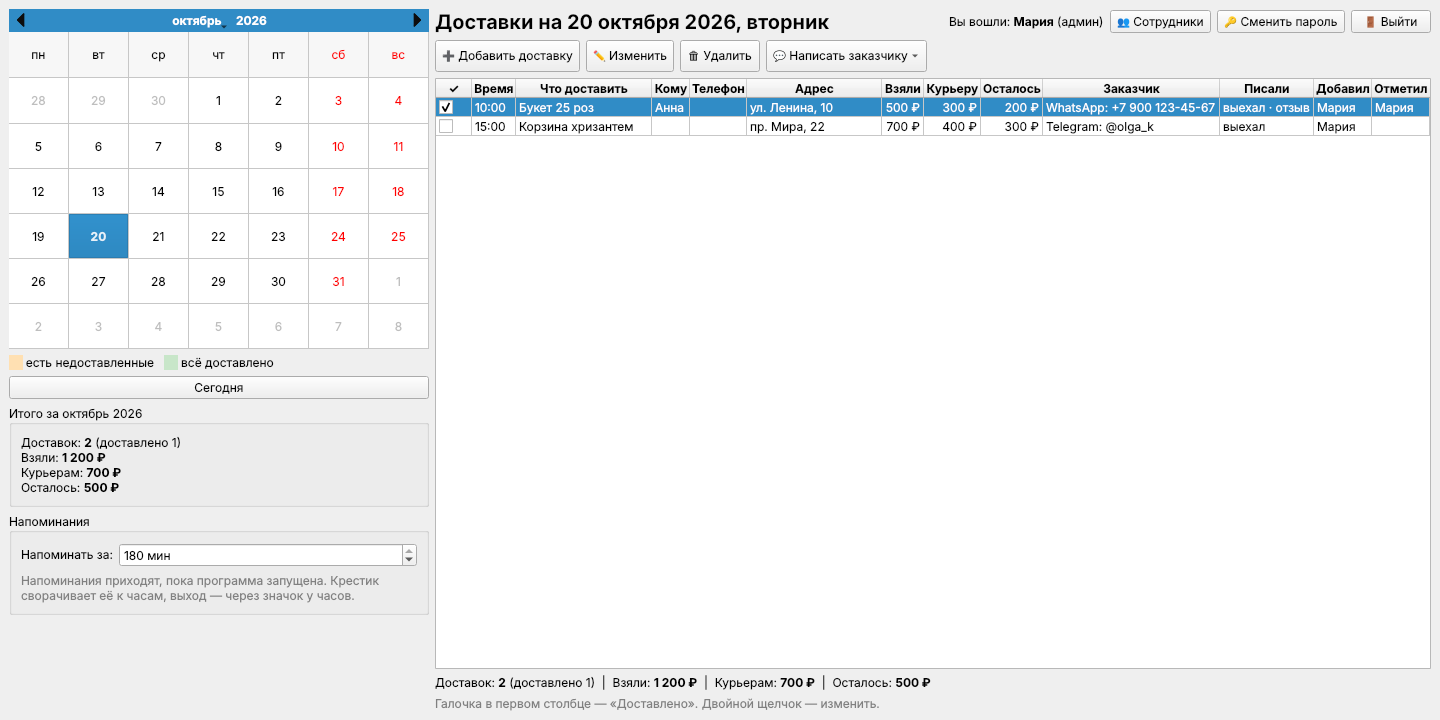
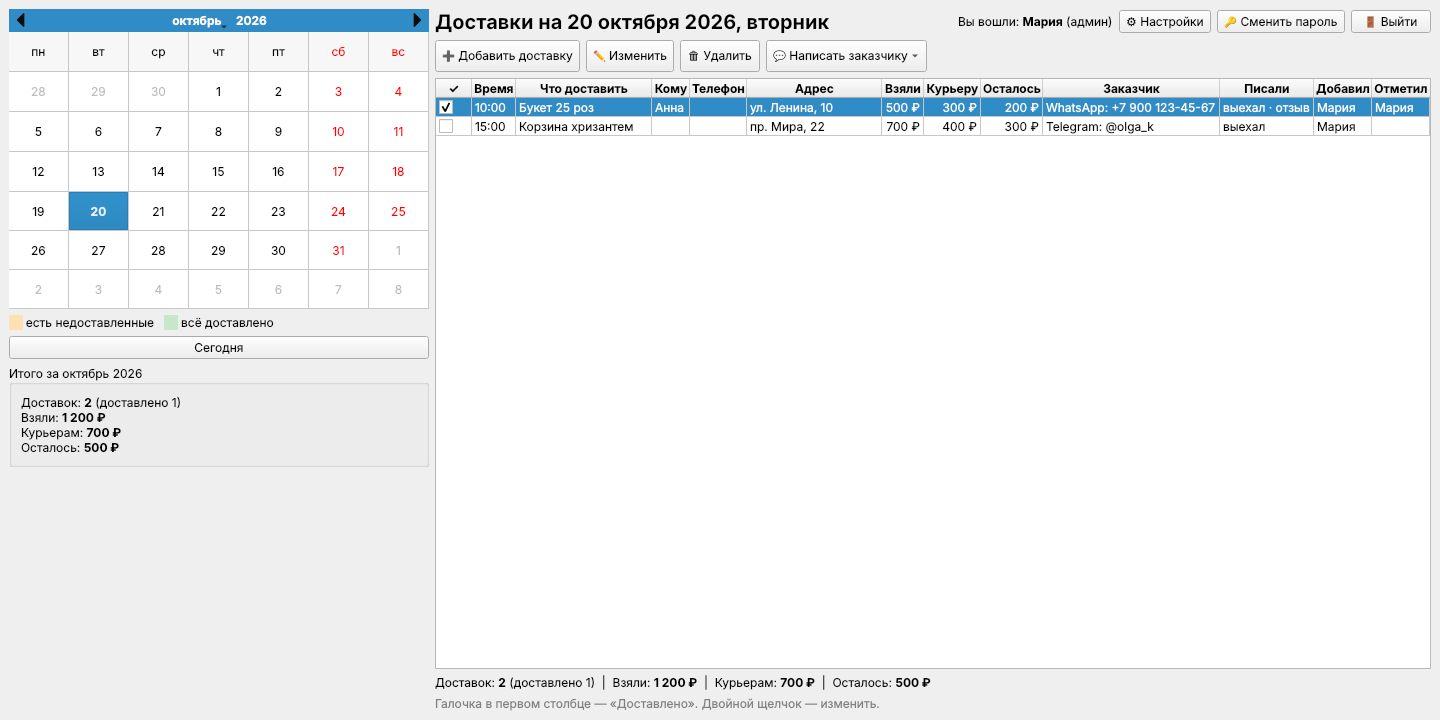
Окно настроек для администратора
Кнопка «Настройки» (видна только админу) собирает напоминания,
автозапуск, сотрудников, тексты сообщений и проверку обновлений.
Слева освободилось место, из меню сообщений убрана правка текстов.

Claude-Session: https://claude.ai/code/session_01N8isC27Ckv7WkyKqKzRkjE

diff --git a/app/main_window.py b/app/main_window.py
@@ -1,14 +1,13 @@
 """Главное окно: календарь на месяц и список доставок на выбранный день."""
 
-import sys
 from datetime import date, datetime, timedelta
 
 from PySide6.QtCore import QDate, QLocale, QSettings, Qt, QTimer, QUrl
 from PySide6.QtGui import QAction, QBrush, QDesktopServices, QColor, QFont, QKeySequence, QShortcut, QTextCharFormat
 from PySide6.QtWidgets import (
-    QAbstractItemView, QApplication, QCalendarWidget, QCheckBox, QDialog, QFormLayout,
+    QAbstractItemView, QApplication, QCalendarWidget, QDialog,
     QGroupBox, QHBoxLayout, QHeaderView, QLabel, QMainWindow, QMenu, QMessageBox,
-    QPushButton, QSpinBox, QSystemTrayIcon, QTableWidget, QTableWidgetItem,
+    QPushButton, QSystemTrayIcon, QTableWidget, QTableWidgetItem,
     QVBoxLayout, QWidget,
 )
 
@@ -16,7 +15,8 @@ from .db import Database, Delivery, Totals, User
 from .delivery_dialog import DeliveryDialog, money
 from .icon import flower_icon
 from .messaging import KINDS, SHORT, build_action, render
-from .templates_dialog import TemplatesDialog, load_templates
+from .settings_dialog import SettingsDialog, lead_minutes
+from .templates_dialog import load_templates
 from .update_ui import UpdateController
 from .reminders import due_reminders, reminder_key
 from .users_dialog import LoginDialog, PasswordDialog, UserFormDialog, UsersDialog
@@ -38,9 +38,6 @@ COL_DONE, COL_TIME, COL_ITEMS, COL_RECIPIENT, COL_PHONE, COL_ADDRESS, \
     COL_CREATED_BY, COL_DELIVERED_BY = range(len(HEADERS))
 
 REMINDER_CHECK_MS = 30_000
-DEFAULT_LEAD_MINUTES = 20
-AUTOSTART_KEY = r"HKEY_CURRENT_USER\Software\Microsoft\Windows\CurrentVersion\Run"
-AUTOSTART_NAME = "FlowerDeliveries"
 
 DELIVERED_BG = QColor("#e3f4e4")
 PENDING_DAY_BG = QColor("#ffe0b2")  # в этот день есть недоставленные
@@ -112,9 +109,7 @@ class MainWindow(QMainWindow):
         self.month_label.setWordWrap(True)
         month_layout.addWidget(self.month_label)
         left.addWidget(self.month_box)
-        left.addWidget(self._build_reminder_box())
         self.updater = UpdateController(self)
-        left.addWidget(self.updater.build_box())
         left.addStretch(1)
 
         # Правая часть: доставки за день
@@ -131,14 +126,14 @@ class MainWindow(QMainWindow):
         top.addWidget(self.day_title, 1)
         self.user_label = QLabel()
         top.addWidget(self.user_label)
-        self.users_btn = QPushButton("👥 Сотрудники")
-        self.users_btn.clicked.connect(self.manage_users)
+        self.settings_btn = QPushButton("⚙ Настройки")
+        self.settings_btn.clicked.connect(self.open_settings)
         password_btn = QPushButton("🔑 Сменить пароль")
         password_btn.clicked.connect(self.change_password)
         logout_btn = QPushButton("🚪 Выйти")
         logout_btn.setToolTip("Выйти из профиля, чтобы вошёл другой сотрудник")
         logout_btn.clicked.connect(self.logout)
-        for b in (self.users_btn, password_btn, logout_btn):
+        for b in (self.settings_btn, password_btn, logout_btn):
             top.addWidget(b)
         right.addLayout(top)
 
@@ -155,9 +150,6 @@ class MainWindow(QMainWindow):
         for kind, title in KINDS.items():
             action = write_menu.addAction(title)
             action.triggered.connect(lambda _=False, k=kind: self.write_to_customer(k))
-        write_menu.addSeparator()
-        self.templates_action = write_menu.addAction("✏ Изменить тексты сообщений…")
-        self.templates_action.triggered.connect(self.edit_templates)
         self.write_btn.setMenu(write_menu)
         for b in (add_btn, self.edit_btn, self.delete_btn, self.write_btn):
             b.setMinimumHeight(32)
@@ -203,50 +195,6 @@ class MainWindow(QMainWindow):
         QTimer.singleShot(2000, self.check_reminders)
 
     # ----- напоминания и трей -----
-
-    def _build_reminder_box(self) -> QGroupBox:
-        box = QGroupBox("Напоминания")
-        form = QFormLayout(box)
-
-        self.lead_box = QSpinBox()
-        self.lead_box.setRange(1, 180)
-        self.lead_box.setSuffix(" мин")
-        self.lead_box.setValue(int(self.settings.value("lead_minutes", DEFAULT_LEAD_MINUTES)))
-        self.lead_box.valueChanged.connect(self._on_lead_changed)
-        form.addRow("Напоминать за:", self.lead_box)
-
-        self.autostart_check = QCheckBox("Запускать вместе с Windows")
-        self.autostart_check.setVisible(sys.platform == "win32")
-        self.autostart_check.setChecked(self._autostart_enabled())
-        self.autostart_check.toggled.connect(self._set_autostart)
-        form.addRow(self.autostart_check)
-
-        hint = QLabel("Приходят, пока программа запущена. Крестик сворачивает её "
-                      "к часам, выход — через значок у часов.")
-        hint.setWordWrap(True)
-        hint.setStyleSheet("color: gray")
-        form.addRow(hint)
-        return box
-
-    def _on_lead_changed(self, value: int):
-        self.settings.setValue("lead_minutes", value)
-        self.check_reminders()
-
-    def _autostart_settings(self) -> QSettings:
-        return QSettings(AUTOSTART_KEY, QSettings.NativeFormat)
-
-    def _autostart_enabled(self) -> bool:
-        if sys.platform != "win32":
-            return False
-        return self._autostart_settings().contains(AUTOSTART_NAME)
-
-    def _set_autostart(self, enabled: bool):
-        run = self._autostart_settings()
-        if enabled:
-            run.setValue(AUTOSTART_NAME, f'"{sys.executable}" --minimized'
-                         if getattr(sys, "frozen", False) else f'"{sys.executable}" "{sys.argv[0]}" --minimized')
-        else:
-            run.remove(AUTOSTART_NAME)
 
     def _setup_tray(self):
         self.tray = QSystemTrayIcon(flower_icon(), self)
@@ -294,8 +242,7 @@ class MainWindow(QMainWindow):
             return
         role = "админ" if user.is_admin else "сотрудник"
         self.user_label.setText(f"Вы вошли: <b>{user.name or user.login}</b> ({role})")
-        self.users_btn.setVisible(user.is_admin)
-        self.templates_action.setVisible(user.is_admin)
+        self.settings_btn.setVisible(user.is_admin)
 
     def logout(self):
         self.set_user(None)
@@ -351,7 +298,7 @@ class MainWindow(QMainWindow):
         now = datetime.now()
         today = now.date()
         deliveries = self.db.for_day(today) + self.db.for_day(today + timedelta(days=1))
-        due = due_reminders(deliveries, now, self.lead_box.value(), self._reminded)
+        due = due_reminders(deliveries, now, lead_minutes(), self._reminded)
         for d in due:
             self._reminded.add(reminder_key(d))
         if not due:
@@ -496,8 +443,9 @@ class MainWindow(QMainWindow):
         self.db.mark_message(d.id, kind)
         self.refresh_day()
 
-    def edit_templates(self):
-        TemplatesDialog(self).exec()
+    def open_settings(self):
+        if self.user is not None and self.user.is_admin:
+            SettingsDialog(self).exec()
 
     def _on_double_click(self, item: QTableWidgetItem):
         if item.column() != COL_DONE:

diff --git a/app/settings_dialog.py b/app/settings_dialog.py
@@ -1,0 +1,80 @@
+"""Окно настроек — только для администратора."""
+
+import sys
+
+from PySide6.QtCore import QSettings, QTimer
+from PySide6.QtWidgets import (
+    QCheckBox, QDialog, QDialogButtonBox, QFormLayout, QGroupBox, QHBoxLayout,
+    QLabel, QPushButton, QSpinBox, QVBoxLayout,
+)
+
+from . import autostart
+from .templates_dialog import TemplatesDialog
+
+DEFAULT_LEAD_MINUTES = 20
+
+
+def lead_minutes() -> int:
+    """За сколько минут до доставки напоминать."""
+    settings = QSettings("FlowerDeliveries", "FlowerDeliveries")
+    return int(settings.value("lead_minutes", DEFAULT_LEAD_MINUTES))
+
+
+class SettingsDialog(QDialog):
+    def __init__(self, window):
+        super().__init__(window)
+        self.main = window
+        self.setWindowTitle("Настройки")
+        self.setMinimumWidth(460)
+        layout = QVBoxLayout(self)
+
+        reminders = QGroupBox("Напоминания о доставках")
+        form = QFormLayout(reminders)
+        self.lead_box = QSpinBox()
+        self.lead_box.setRange(1, 180)
+        self.lead_box.setSuffix(" мин")
+        self.lead_box.setValue(lead_minutes())
+        form.addRow("Напоминать за:", self.lead_box)
+        self.autostart_check = QCheckBox("Запускать вместе с Windows")
+        self.autostart_check.setChecked(autostart.is_enabled())
+        self.autostart_check.setVisible(sys.platform == "win32")
+        form.addRow(self.autostart_check)
+        hint = QLabel("Напоминания приходят, пока программа запущена. Крестик сворачивает её "
+                      "к часам, выход — через значок у часов.")
+        hint.setWordWrap(True)
+        hint.setStyleSheet("color: gray")
+        form.addRow(hint)
+        layout.addWidget(reminders)
+
+        shop = QGroupBox("Магазин")
+        row = QHBoxLayout(shop)
+        users = QPushButton("👥 Сотрудники…")
+        users.setToolTip("Добавить, удалить, сменить пароль, назначить администратором")
+        users.clicked.connect(self._open_users)
+        texts = QPushButton("💬 Тексты сообщений…")
+        texts.setToolTip("Что получает заказчик: «курьер выехал», «доставлено», «отзыв»")
+        texts.clicked.connect(lambda: TemplatesDialog(self).exec())
+        row.addWidget(users)
+        row.addWidget(texts)
+        layout.addWidget(shop)
+
+        layout.addWidget(window.updater.build_box())
+
+        buttons = QDialogButtonBox(QDialogButtonBox.Save | QDialogButtonBox.Cancel)
+        buttons.button(QDialogButtonBox.Save).setText("Сохранить")
+        buttons.button(QDialogButtonBox.Cancel).setText("Отмена")
+        buttons.accepted.connect(self.accept)
+        buttons.rejected.connect(self.reject)
+        layout.addWidget(buttons)
+
+    def _open_users(self):
+        # Сначала закрываем настройки: после удаления себя из списка программа просит войти заново.
+        self.reject()
+        QTimer.singleShot(0, self.main.manage_users)
+
+    def accept(self):
+        QSettings("FlowerDeliveries", "FlowerDeliveries").setValue("lead_minutes", self.lead_box.value())
+        if sys.platform == "win32":
+            autostart.set_enabled(self.autostart_check.isChecked())
+        super().accept()
+        self.main.check_reminders()

diff --git a/app/autostart.py b/app/autostart.py
@@ -1,0 +1,28 @@
+"""Запуск программы вместе с Windows (запись в реестре текущего пользователя)."""
+
+import sys
+
+from PySide6.QtCore import QSettings
+
+RUN_KEY = r"HKEY_CURRENT_USER\Software\Microsoft\Windows\CurrentVersion\Run"
+NAME = "FlowerDeliveries"
+
+
+def _run() -> QSettings:
+    return QSettings(RUN_KEY, QSettings.NativeFormat)
+
+
+def is_enabled() -> bool:
+    return sys.platform == "win32" and _run().contains(NAME)
+
+
+def set_enabled(enabled: bool):
+    if sys.platform != "win32":
+        return
+    run = _run()
+    if enabled:
+        command = f'"{sys.executable}"' if getattr(sys, "frozen", False) \
+            else f'"{sys.executable}" "{sys.argv[0]}"'
+        run.setValue(NAME, command + " --minimized")
+    else:
+        run.remove(NAME)

diff --git a/README.md b/README.md
@@ -18,11 +18,11 @@
 
 - **Напоминания.** За 20 минут до доставки (можно поменять) в углу экрана появляется уведомление Windows: время, что везти и адрес. Время берётся из поля «Время» (для «14:00–16:00» — начало, 14:00). О доставленных не напоминает.
   - Напоминания приходят, пока программа запущена. Крестик не закрывает её, а сворачивает к часам (значок цветка в трее). Полностью выйти — правой кнопкой по значку → «Выход».
-  - Галочка **«Запускать вместе с Windows»** — программа сама стартует при включении компьютера (свёрнутой) и будет напоминать.
+  - В **«⚙ Настройки»** можно изменить, за сколько минут напоминать, и включить галочку **«Запускать вместе с Windows»** — тогда программа сама стартует при включении компьютера (свёрнутой) и будет напоминать.
 
 - **Профили сотрудников.** Вход по логину и паролю. В таблице видно, кто добавил доставку («Добавил») и кто отметил её доставленной («Отметил»).
   - При первом запуске программа попросит создать администратора — это главный профиль.
-  - Администратор в разделе **«Сотрудники»** добавляет и удаляет сотрудников, сбрасывает им пароли и может назначить другого администратора.
+  - Администратор в **«⚙ Настройки» → «Сотрудники…»** добавляет и удаляет сотрудников, сбрасывает им пароли и может назначить другого администратора.
   - Каждый может сменить свой пароль. Кнопка **«Выйти»** — чтобы за компьютер сел другой сотрудник.
   - Пароли не хранятся в открытом виде. Если сотрудник забыл пароль — администратор задаёт ему новый. Совет: заведите двух администраторов, чтобы не остаться без доступа.
 
@@ -30,9 +30,11 @@
   - **WhatsApp** (по номеру) и **Telegram** (по логину `@имя`): открывается чат с уже вставленным текстом, остаётся нажать «Отправить».
   - **ВКонтакте, Макс и остальное:** эти мессенджеры не дают подставить текст по ссылке. Программа копирует текст в буфер (и открывает страницу, если указана ссылка), а вы вставляете его через `Ctrl+V`.
   - В столбце «Писали» видно, какие сообщения уже отправляли. Отметка ставится при нажатии кнопки, то есть программа не знает, нажали ли вы потом «Отправить» в мессенджере.
-  - Администратор может поменять тексты сообщений: «Написать заказчику» → «Изменить тексты сообщений…».
+  - Администратор может поменять тексты сообщений: **«⚙ Настройки» → «Тексты сообщений…»**.
 
-- **Автообновление.** Программа сама проверяет новые версии при запуске и раз в 6 часов. Нашла — спросит «Обновить сейчас?», скачает новый файл, проверит его целостность, заменит себя и перезапустится. Записи, сотрудники и настройки остаются на месте: они хранятся не в `.exe`, а в папке «Документы\\Доставки цветов» и в настройках Windows. Перед обновлением рядом с базой кладётся копия `deliveries.before-update.db`. Кнопка **«Проверить обновления»** слева внизу проверяет вручную.
+- **Автообновление.** Программа сама проверяет новые версии при запуске и раз в 6 часов. Нашла — спросит «Обновить сейчас?», скачает новый файл, проверит его целостность, заменит себя и перезапустится. Записи, сотрудники и настройки остаются на месте: они хранятся не в `.exe`, а в папке «Документы\\Доставки цветов» и в настройках Windows. Перед обновлением рядом с базой кладётся копия `deliveries.before-update.db`. Вручную проверить можно в **«⚙ Настройки» → «Проверить обновления»**.
+
+- **Настройки только для администратора.** Кнопка **«⚙ Настройки»** (справа вверху) видна лишь админу: напоминания, автозапуск, сотрудники, тексты сообщений, версия и обновления. Сотрудники видят только свою работу с доставками, смену своего пароля и выход.
 
 Горячие клавиши: `Ctrl+N` — новая доставка, `Delete` — удалить выбранную, двойной щелчок — изменить.
 
